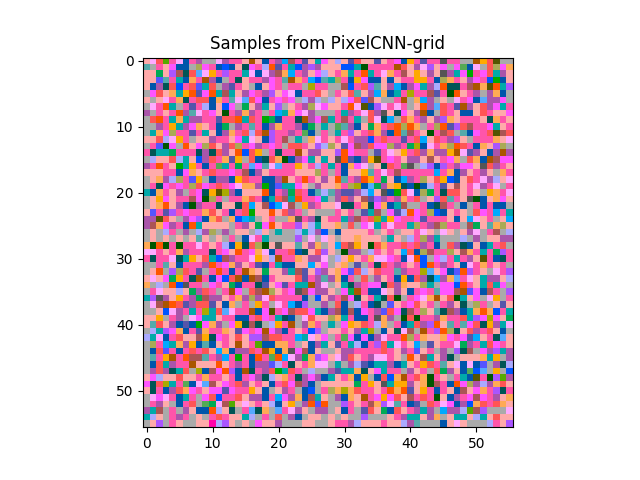
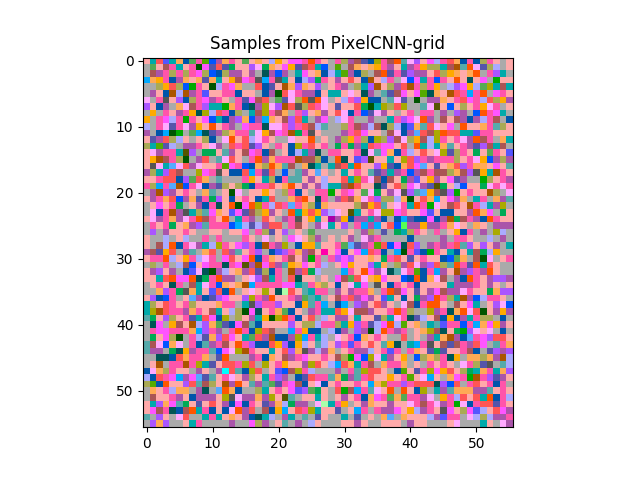
changed masking

diff --git a/hw1/pixelCNN.py b/hw1/pixelCNN.py
@@ -20,7 +20,7 @@ def get_pixelcnn_mask(this_filters_shape, isTypeA, n_channels=3):
 
     Returns mask of shape (kernel_size, kernel_size, # channels, # filters)
     """
-    mask = np.ones(this_filters_shape)
+    mask = np.zeros(this_filters_shape)
     ctr_pix = [this_filters_shape[0] // 2, this_filters_shape[1] // 2]
     # mask out all pixels conditioned on
     for i in range(this_filters_shape[0]):
@@ -30,9 +30,8 @@ def get_pixelcnn_mask(this_filters_shape, isTypeA, n_channels=3):
                 mask_centre(ctr_pix, isTypeA, mask, n_channels)
                 break
             # mask all channels for conditioned pixels
-            # TODO: should this be other way? due to image y axis flipped
             elif i < ctr_pix[0] or (i == ctr_pix[0] and j < ctr_pix[1]):
-                mask[i, j, :, :] = 0
+                mask[i, j, :, :] = 1
     return mask
 
 
@@ -49,10 +48,10 @@ def mask_centre(cur_pixel, isTypeA, mask, n_channels):
     """
     for i in range(n_channels):
         for j in range(n_channels):
-            if isTypeA and i >= j:
-                mask[cur_pixel[0], cur_pixel[1], i::n_channels, j::n_channels] = 0
-            elif i > j:
-                mask[cur_pixel[0], cur_pixel[1], i::n_channels, j::n_channels] = 0
+            if not isTypeA and i <= j:
+                mask[cur_pixel[0], cur_pixel[1], i::n_channels, j::n_channels] = 1
+            elif i < j:
+                mask[cur_pixel[0], cur_pixel[1], i::n_channels, j::n_channels] = 1
 
 
 class MaskedCNN(tf.keras.layers.Conv2D):
@@ -81,19 +80,22 @@ class MaskedResidualBlock(tf.keras.layers.Layer):
 
     def build(self, input_shape):
         # 1x1 relu filter, then 3x3 then 1x1
-        self.layer1 = MaskedCNN(self.n_filters, 1, False, activation="relu")
-        self.layer2 = MaskedCNN(self.n_filters, 3, False, activation="relu")
-        self.layer3 = MaskedCNN(self.n_filters*2, 1, False, activation="relu")
+        self.layer1 = MaskedCNN(self.n_filters, 1, False)
+        self.layer2 = MaskedCNN(self.n_filters, 3, False)
+        self.layer3 = MaskedCNN(self.n_filters*2, 1, False)
 
     def call(self, inputs):
         """
         x is the inputs, [image, (cx, cy)]
         """
         # other layers take img and cur pixel location
-        x = self.layer1(inputs)
+        x = tf.keras.layers.ReLU()(inputs)
+        x = self.layer1(x)
+        x = tf.keras.layers.ReLU()(x)
         x = self.layer2(x)
-        res_path = self.layer3(x)
-        return inputs + res_path
+        x = tf.keras.layers.ReLU()(x)
+        x = self.layer3(x)
+        return inputs + x
 
 
 class PixelCNNModel(tf.keras.Model):
@@ -207,7 +209,7 @@ class PixelCNN:
 
     def fwd_loss(self, X):
         logits = self.forward_logits(X)
-        loss = self.loss(tf.reshape(x, (-1, self.H * self.W, self.C)), logits)
+        loss = self.loss(tf.reshape(X, (-1, self.H * self.W, self.C)), logits)
         return loss
 
     def get_samples(self, n):
@@ -217,6 +219,8 @@ class PixelCNN:
         We batch this for efficiency.
         """
         images = np.zeros((n, self.H, self.W, self.C))
+        # start with random values for first channel of first pixel
+        images[:, 0, 0, 0] = np.random.choice(self.n_vals, size=n)
         for h in range(self.H):
             for w in range(self.W):
                 for c in range(self.C):
@@ -277,27 +281,50 @@ def display_image_rows(data, title):
 def test_maskA():
     mask_shape = (5, 5, 3, 3)
     mask = get_pixelcnn_mask(mask_shape, True)
+    display_mask(mask, "Example Mask A")
+
+
+def display_mask(mask, title):
     # index by prev layer's channels then this layer's channels
     # so rows are prev layer's channels, cols are this layer's
     # concat by prev layer channels into row images, then this channel dim is each image in the row (cols)
     mask_disp = np.concatenate(mask.transpose([3, 1, 0, 2]), axis=0).transpose([2, 1, 0])[..., None]
     print(mask_disp.shape)
     # mask_disp = mask.reshape(mask_shape[:2] + (-1, 1)).transpose([2, 0, 1, 3])
-    display_image_rows(mask_disp, "Example Mask A")
+    display_image_rows(mask_disp, title)
 
 
 def test_maskB():
     mask_shape = (5, 5, 3, 3)
     mask = get_pixelcnn_mask(mask_shape, False)
-    # index by prev layer's channels then this layer's channels
-    # so rows are prev layer's channels, cols are this layer's
-    # concat by prev layer channels into row images, then this channel dim is each image in the row (cols)
-    mask_disp = np.concatenate(mask.transpose([3, 1, 0, 2]), axis=0).transpose([2, 1, 0])[..., None]
-    print(mask_disp.shape)
-    # mask_disp = mask.reshape(mask_shape[:2] + (-1, 1)).transpose([2, 0, 1, 3])
-    display_image_rows(mask_disp, "Example Mask B")
+    display_mask(mask, "Example Mask B")
+
+
+def get_mask(kernel_size, channels_in, channels_out, input_channels, mask_type, factorized=True):
+    mask = np.zeros(shape=(kernel_size, kernel_size, channels_in, channels_out), dtype=np.float32)
+    mask[:kernel_size // 2, :, :, :] = 1
+    mask[kernel_size // 2, :kernel_size // 2, :, :] = 1
+
+    if factorized:
+        if mask_type == 'B':
+            mask[kernel_size // 2, kernel_size // 2, :, :] = 1
+    else:
+        factor_w = int(np.ceil(channels_out / input_channels))
+        factor_h = int(np.ceil(channels_in / input_channels))
+        k = mask_type == 'A'
+        m0 = np.triu(np.ones(dtype=np.float32, shape=(input_channels, input_channels)), k)
+        m1 = np.repeat(m0, factor_w, axis=1)
+        m2 = np.repeat(m1, factor_h, axis=0)
+        mask_ch = m2[:channels_in, :channels_out]
+        mask[kernel_size // 2, kernel_size // 2, :, :] = mask_ch
+
+    return mask
 
 
 if __name__ == "__main__":
-    test_maskA()
-    test_maskB()
+    # test_maskA()
+    # test_maskB()
+    pixelcnn_mask = get_pixelcnn_mask((5, 5, 3, 3), True)
+    display_mask(pixelcnn_mask, None)
+    pixelcnn_mask = get_pixelcnn_mask((5, 5, 3, 3), False)
+    display_mask(pixelcnn_mask, None)

diff --git a/hw1/utils.py b/hw1/utils.py
@@ -17,7 +17,7 @@ def gather_nd(x, inds, name="gather_nd"):
 
 def tf_log2(probs):
     nat_log = tf.math.log(probs)
-    return tf_log_to_base_n(nat_log)
+    return tf_log_to_base_n(nat_log, 2)
 
 
 def tf_log_to_base_n(nat_log, n):

diff --git a/hw1/high_dimensional_data.py b/hw1/high_dimensional_data.py
@@ -107,5 +107,4 @@ if __name__ == "__main__":
     # plot_data()
 
     # pixel_cnn_debug()
-    #TODO: try incr. lr
     pixel_cnn_main()
